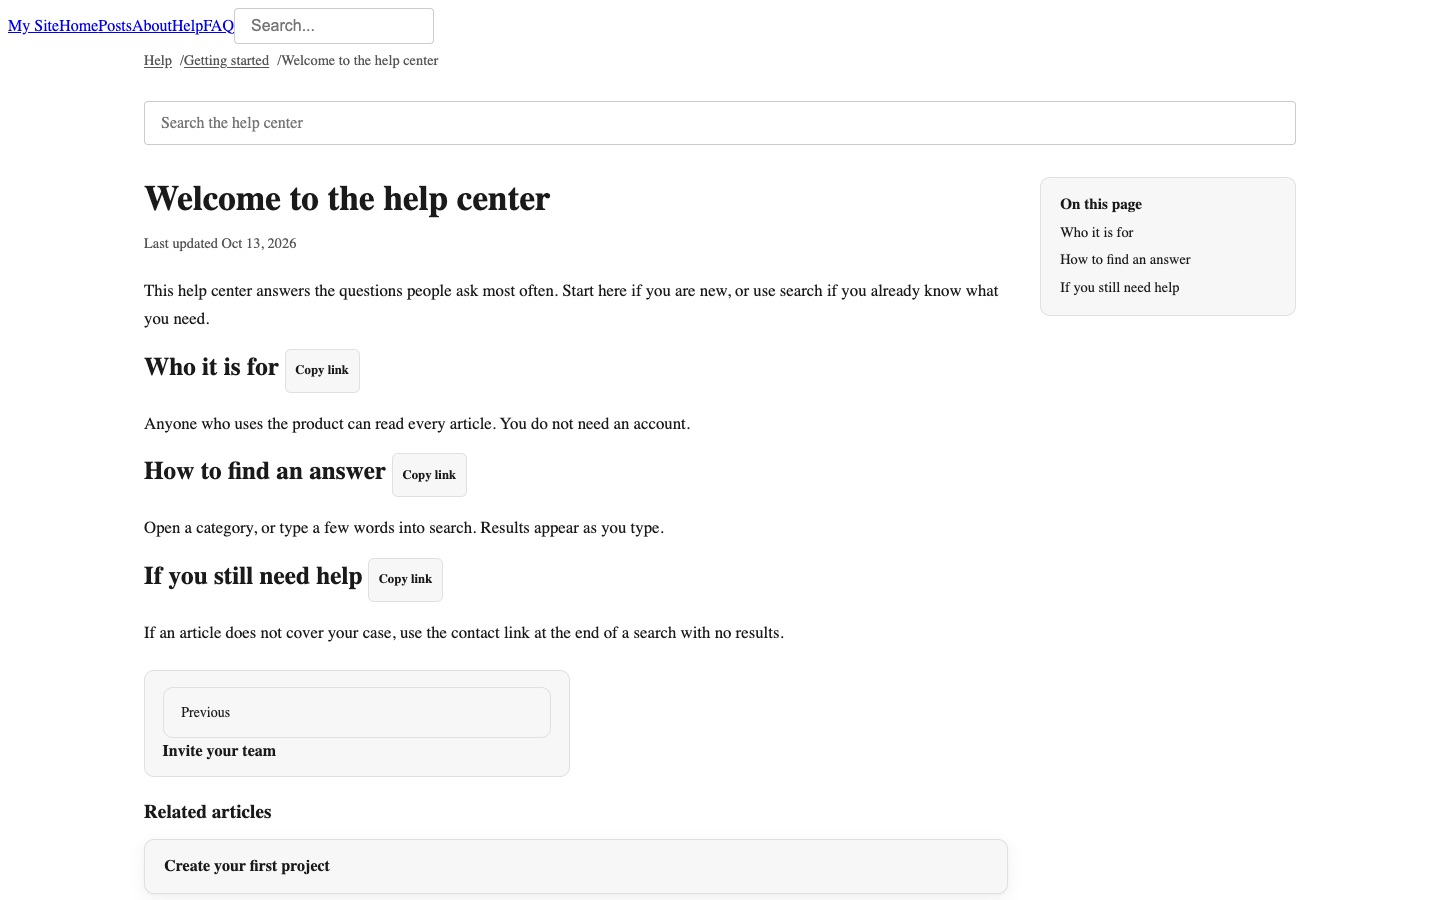
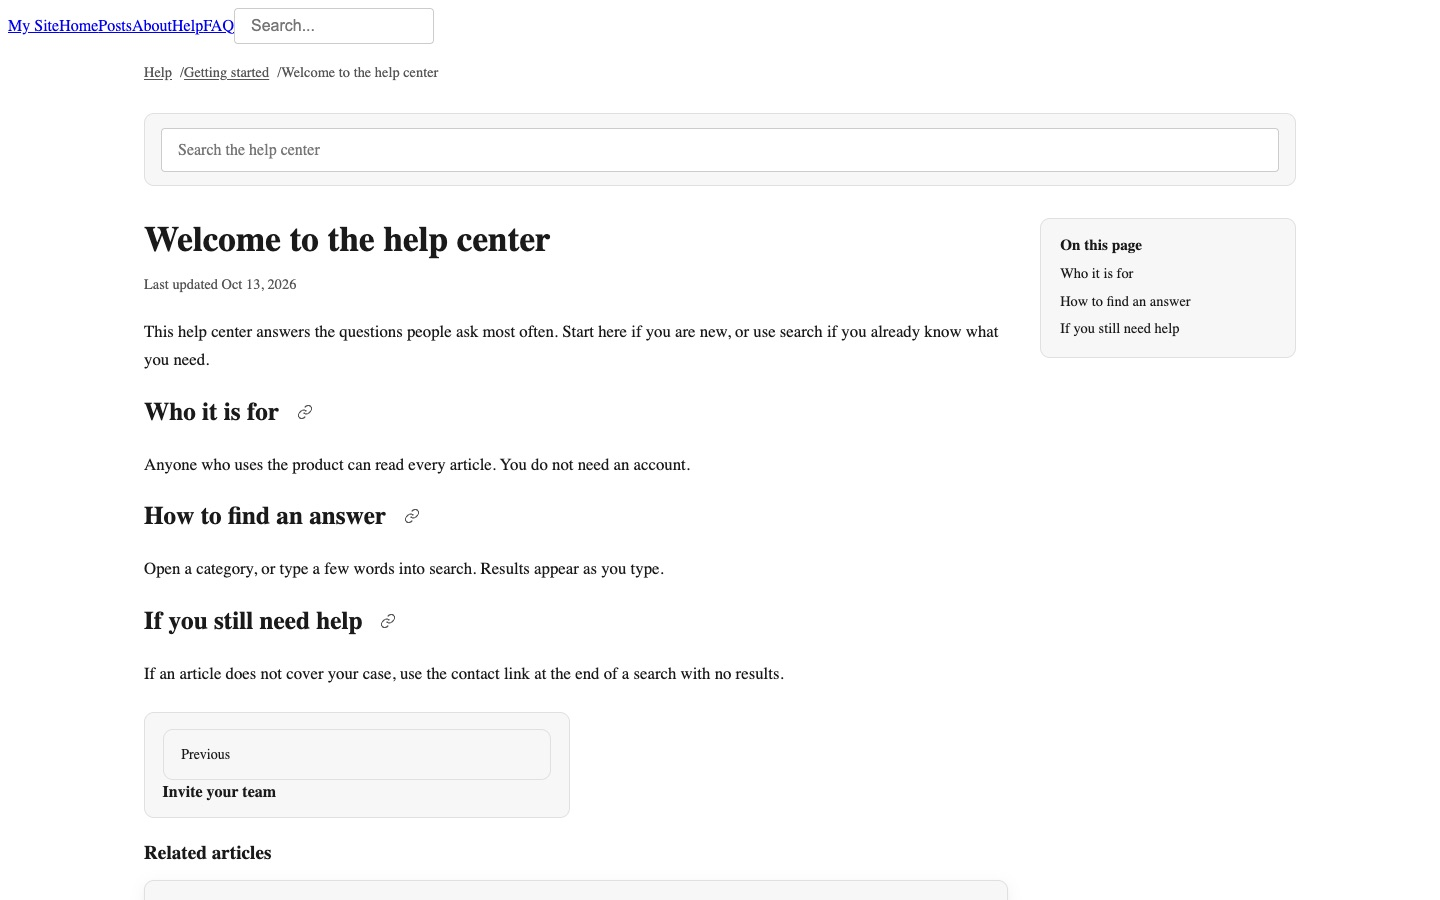
Rewrite registry shots after a guest click-through, and drop the empty pager card.
The old article JPEG still showed Copy link pills. The walk also found a blank pager box on phone when only Next exists.

diff --git a/site-kit/styles/knowx.css b/site-kit/styles/knowx.css
@@ -284,8 +284,11 @@
 	gap: 0.75rem;
 }
 
-.kx-pager a,
-.kx-pager span {
+.kx-pager__next:only-child {
+	grid-column: 2;
+}
+
+.kx-pager a {
 	display: grid;
 	gap: 0.2rem;
 	min-height: var(--wb-tap);
@@ -453,6 +456,10 @@
 	.kx-pager,
 	.kx-search-form {
 		grid-template-columns: 1fr;
+	}
+
+	.kx-pager__next:only-child {
+		grid-column: 1;
 	}
 
 	.kx-hero,

diff --git a/docs/qa/QA_CHECKLIST.md b/docs/qa/QA_CHECKLIST.md
@@ -2,7 +2,7 @@
 
 One living list of flow-level cases. Walk all of it before every release. When you add or fix behaviour, add or change its case in the same pull request. There are no per-release QA files.
 
-**Last walk:** 2026-10-14, independent presentation QA of 0.1.1 (`d368567`) against wp-card-qa + ux-foundation. Guest home, article, search (hits + empty), FAQ, category, 404 at 1440, 1024, 820, 390, light and dark. Verdict on #20: BOUNCE.
+**Last walk:** 2026-10-14, guest browser walk on lab :4333 after `ff1d21a` plus pager fix. Clicked topic, article, copy-link, Yes (thanks shown), kit LiveSearch (`Help article`), search page (`welcome`, 2 hits), empty search, FAQ (first open), 404 heading, dark home/article, 1024 home, 390 home/article. Registry JPEGs rewritten only after that walk.
 
 Walked in the browser as a guest this pass: G-7, G-10 (404 status + empty state), search hits/empty, FAQ, category, article chrome. Presentation matrix: 1440 then 1024/820 then 390, light and dark.
 

diff --git a/CHANGELOG.md b/CHANGELOG.md
@@ -13,6 +13,7 @@ Copy `site-kit/` again after you update.
 - Fix      - The kit paints its own canvas in dark, so Topics and article body stay readable when the host page stays light.
 - Fix      - Article copy-link is an icon with a name, not a "Copy link" pill inside the heading.
 - Fix      - Missing-article page uses a heading. Article search uses the same card as home.
+- Fix      - Article pager no longer draws an empty card when there is only a Next or Previous link.
 
 ## [0.1.0] - 2026-10-14
 
